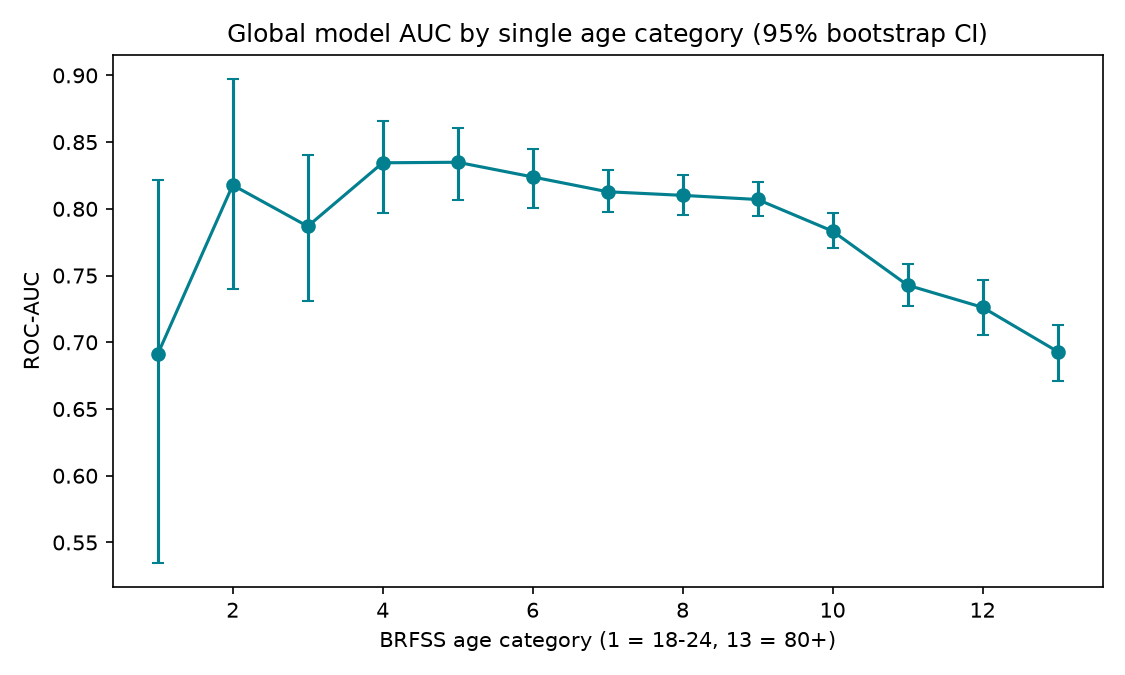
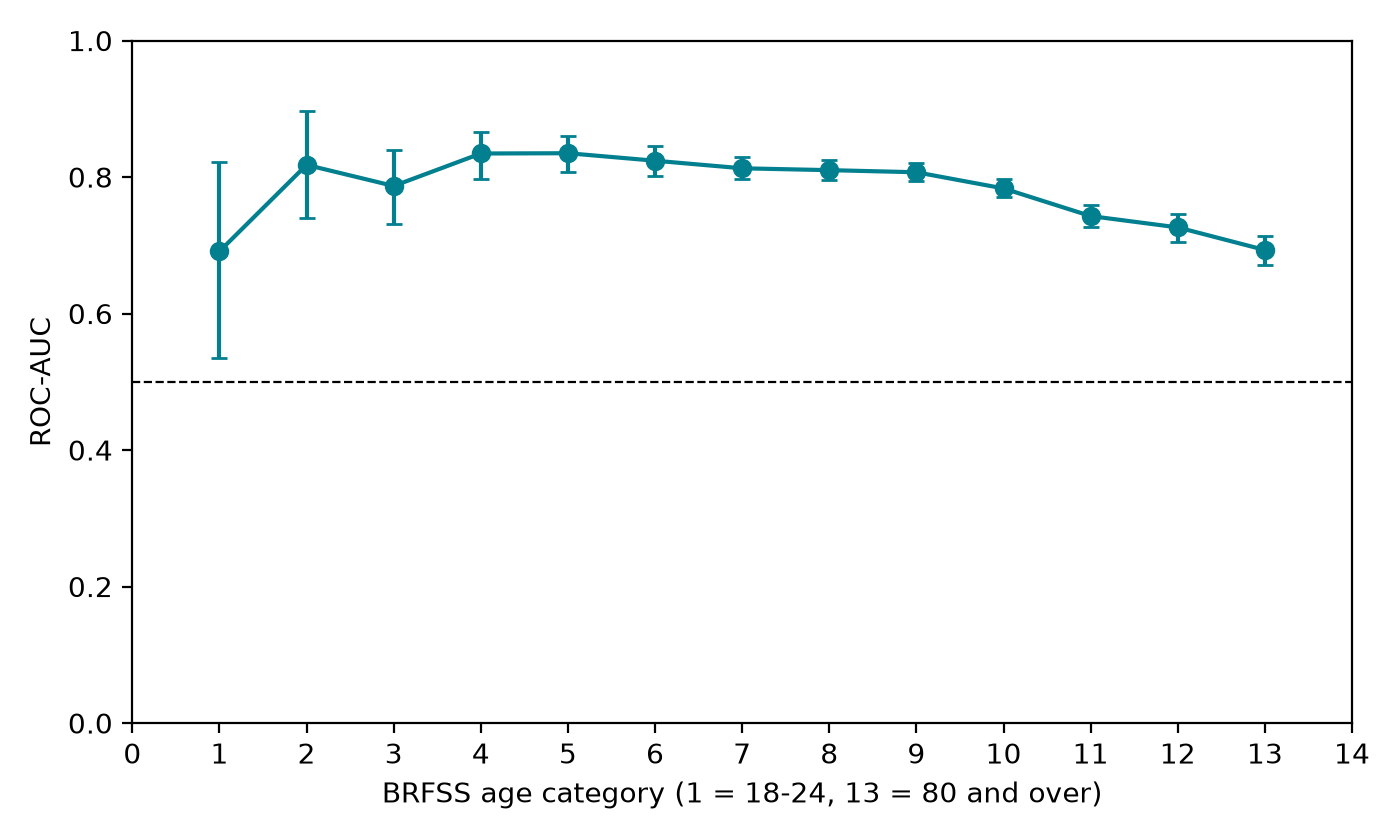
Fix data-source description; regenerate figures with zero-based axes

diff --git a/src/make_figures.py b/src/make_figures.py
@@ -1,0 +1,140 @@
+import os
+import numpy as np, pandas as pd
+import matplotlib.pyplot as plt
+from sklearn.metrics import precision_score, recall_score, f1_score
+from pipeline import X_tr, X_va, X_te, y_tr, y_va, y_te, models, fit_calibrator, cv_brier
+
+os.makedirs("figures", exist_ok=True)
+yva, yte = np.asarray(y_va), np.asarray(y_te)
+C1, C2, C3, C4 = "#028090", "#E86A5C", "#6A4C93", "#2A9D8F"
+FIGSIZE = (7, 4.2)
+
+
+def err(center, lo, hi):
+    """Asymmetric error bars, clipped so they are never negative."""
+    c = np.asarray(center, float)
+    return [np.clip(c - np.asarray(lo, float), 0, None),
+            np.clip(np.asarray(hi, float) - c, 0, None)]
+
+
+def save(fig, name):
+    fig.tight_layout()
+    fig.savefig(f"figures/{name}", dpi=200)
+    plt.close(fig)
+
+
+# ---------------------------------------------------------------------------
+# 0. Fit models + calibrators FIRST (this was defined too late before -> NameError)
+# ---------------------------------------------------------------------------
+S = {}
+for lab, w in (("plain", False), ("weighted", True)):
+    m = models(w)["XGB"]
+    m.fit(X_tr, y_tr)
+    s_va, s_te = m.predict_proba(X_va)[:, 1], m.predict_proba(X_te)[:, 1]
+    kind = min(("platt", "isotonic"), key=lambda c: cv_brier(c, s_va, yva))
+    S[lab] = dict(raw=s_te, cal=fit_calibrator(kind, s_va, yva)(s_te), kind=kind)
+
+
+def curve(y_, p, bins=10):
+    parts = np.array_split(np.argsort(p), bins)
+    return np.array([p[i].mean() for i in parts]), np.array([y_[i].mean() for i in parts])
+
+
+# ---------------------------------------------------------------------------
+# 1. AUC with bootstrap CIs (y from 0, values printed)
+# ---------------------------------------------------------------------------
+ci = pd.read_csv("figures/v2_bootstrap_ci_summary.csv")
+fig, ax = plt.subplots(figsize=FIGSIZE)
+xs = np.arange(len(ci))
+ax.errorbar(xs, ci["AUC"], yerr=err(ci["AUC"], ci["AUC_lo"], ci["AUC_hi"]),
+            fmt="o", capsize=5, color=C1)
+for x_, a, lo, hi in zip(xs, ci["AUC"], ci["AUC_lo"], ci["AUC_hi"]):
+    # put label just above the CI, but never above the top of the axes
+    ax.text(x_ + 0.05, min(hi + 0.02, 0.90), f"{a:.3f}\n[{lo:.3f}, {hi:.3f}]",
+            ha="left", va="bottom", fontsize=7)
+ax.axhline(0.5, color="k", lw=0.8, ls="--")
+ax.text(len(ci) - 0.55, 0.52, "chance (0.5)", ha="right", fontsize=7)
+ax.set_xticks(xs); ax.set_xticklabels(ci["model"])
+ax.set_xlim(-0.5, len(ci) - 0.5); ax.set_ylim(0, 1)
+ax.set_ylabel("ROC-AUC"); ax.set_title("Test ROC-AUC, 95% bootstrap CI")
+save(fig, "v2_bootstrap_ci_plot.png")
+
+# ---------------------------------------------------------------------------
+# 2. AUC by single age category (both axes from 0)
+# ---------------------------------------------------------------------------
+ac = pd.read_csv("figures/v2_age_by_category.csv")
+ac["age_category"] = pd.to_numeric(ac["age_category"], errors="coerce")  # must be numeric for xlim
+ac = ac.sort_values("age_category")
+fig, ax = plt.subplots(figsize=FIGSIZE)
+ax.errorbar(ac["age_category"], ac["AUC"], yerr=err(ac["AUC"], ac["lo"], ac["hi"]),
+            fmt="o-", capsize=3, color=C1)
+ax.axhline(0.5, color="k", lw=0.8, ls="--")
+ax.set_xlim(0, 14); ax.set_ylim(0, 1)
+ax.set_xticks(range(0, 15, 1))
+ax.set_xlabel("BRFSS age category (1 = 18-24, 13 = 80 and over)")
+ax.set_ylabel("ROC-AUC")
+save(fig, "v2_fig_age_categories.png")
+
+# ---------------------------------------------------------------------------
+# 3. Threshold sweep from 0 (everyone flagged), both axes from 0
+# ---------------------------------------------------------------------------
+p_cal = S["plain"]["cal"]  # calibrated, unweighted XGBoost, test set
+grid = np.arange(0, 0.6001, 0.005)
+rows = []
+for t in grid:
+    f = p_cal >= t
+    rows.append(dict(thr=t,
+                     prec=precision_score(yte, f, zero_division=0),
+                     rec=recall_score(yte, f, zero_division=0),
+                     F1=f1_score(yte, f, zero_division=0),
+                     pos_rate=f.mean()))
+sw = pd.DataFrame(rows)
+sw.to_csv("figures/v2_threshold_sweep.csv", index=False)
+
+fig, ax = plt.subplots(figsize=FIGSIZE)
+for col, c, lab in (("prec", C1, "Precision"), ("rec", C2, "Recall"),
+                    ("F1", C4, "F1"), ("pos_rate", "#888888", "Share flagged")):
+    ax.plot(sw["thr"], sw[col], color=c, label=lab)
+ax.axvline(0.235, ls=":", color="k", label="validation-chosen = 0.235")
+ax.set_xlim(0, 0.6); ax.set_ylim(0, 1)
+ax.set_xlabel("Decision threshold"); ax.set_ylabel("Metric value")
+ax.legend(fontsize=8)
+save(fig, "v2_fig_threshold.png")
+
+# ---------------------------------------------------------------------------
+# 4. Subgroups: both panels start at 0, ECE limit set from the data
+# ---------------------------------------------------------------------------
+tab = pd.read_csv("figures/v2_subgroup_metrics.csv")
+y = np.arange(len(tab))
+fig, axes = plt.subplots(1, 2, figsize=(9, 4.2), sharey=True)
+for ax, col in zip(axes, ("AUC", "ECE")):
+    ax.errorbar(tab[col], y, xerr=err(tab[col], tab[col + "_lo"], tab[col + "_hi"]),
+                fmt="o", capsize=4, color=C1)
+    ax.set_title(f"{col} by subgroup (95% CI)"); ax.set_xlabel(col)
+axes[0].axvline(0.5, color="k", lw=0.8, ls="--")
+axes[0].set_xlim(0, 1)
+axes[1].set_xlim(0, max(tab["ECE_hi"].max(), tab["ECE"].max()) * 1.15)  # never clips the CI
+axes[0].set_yticks(y); axes[0].set_yticklabels(tab["group"]); axes[0].invert_yaxis()
+save(fig, "v2_fig_subgroups.png")
+
+# ---------------------------------------------------------------------------
+# 5. Calibration: full 0-1 view + zoomed view (rare outcome bunches near 0)
+# ---------------------------------------------------------------------------
+series = (("plain", "raw", "Unweighted, raw", C1),
+          ("weighted", "raw", "Class-weighted, raw", C2),
+          ("weighted", "cal", "Class-weighted, recalibrated", C3))
+curves = [(name, c, *curve(yte, S[lab][key])) for lab, key, name, c in series]
+zoom = min(1.0, max(max(x.max(), yy.max()) for _, _, x, yy in curves) * 1.1)
+
+fig, axes = plt.subplots(1, 2, figsize=(10, 5))
+for ax, lim, title in ((axes[0], 1.0, "Full range"), (axes[1], zoom, f"Zoom (0 to {zoom:.2f})")):
+    ax.plot([0, lim], [0, lim], "k--", label="Perfect calibration")
+    for name, c, x_, y_ in curves:
+        ax.plot(x_, y_, "o-", color=c, label=name)
+    ax.set_xlim(0, lim); ax.set_ylim(0, lim); ax.set_aspect("equal")
+    ax.set_xlabel("Mean predicted probability"); ax.set_ylabel("Observed frequency")
+    ax.set_title(title)
+axes[0].legend(fontsize=8, loc="upper left")
+save(fig, "v2_fig_calibration.png")
+
+print("figures saved")

diff --git a/src/figures.py b/src/figures.py
@@ -83,3 +83,33 @@ ax.set_ylabel("ROC-AUC"); ax.set_title("Age-stratified ROC-AUC, all models")
 plt.tight_layout(); plt.savefig("figures/v2_fig_age_gap.png", dpi=150); plt.close()
 
 print("\nSaved figures/v2_fig_*.png and v2_threshold_sweep.csv")
+
+# ===== axis fixes =====
+# (a) AUC with CIs: fixed axis from chance level
+ci = pd.read_csv("figures/v2_bootstrap_ci_summary.csv")
+fig, ax = plt.subplots(figsize=(7.5, 4.5))
+ax.errorbar(ci["model"], ci["AUC"], yerr=[ci["AUC"] - ci["AUC_lo"], ci["AUC_hi"] - ci["AUC"]],
+            fmt="o", capsize=5, color="#028090")
+ax.axhline(0.5, color="k", lw=0.8, ls="--"); ax.set_ylim(0.5, 1.0)
+ax.set_ylabel("ROC-AUC (axis starts at chance level, 0.5)"); ax.set_title("Test ROC-AUC, 95% bootstrap CI")
+plt.tight_layout(); plt.savefig("figures/v2_bootstrap_ci_plot.png", dpi=150); plt.close()
+
+# (b) AUC by age category
+ac = pd.read_csv("figures/v2_age_by_category.csv")
+fig, ax = plt.subplots(figsize=(7.5, 4.5))
+ax.errorbar(ac["age_category"], ac["AUC"], yerr=[ac["AUC"] - ac["lo"], ac["hi"] - ac["AUC"]],
+            fmt="o-", capsize=3, color="#028090")
+ax.axhline(0.5, color="k", lw=0.8, ls="--"); ax.set_ylim(0.5, 1.0); ax.set_xlim(0, 14)
+ax.set_xlabel("BRFSS age category (1 = 18-24, 13 = 80+)"); ax.set_ylabel("ROC-AUC (axis starts at 0.5)")
+plt.tight_layout(); plt.savefig("figures/v2_fig_age_categories.png", dpi=150); plt.close()
+
+# (c) Age gap: the gap itself, as bars from zero
+ag = pd.read_csv("figures/v2_age_gap_all_models.csv")
+g = ag["gap_18_39_minus_60"]
+fig, ax = plt.subplots(figsize=(6.5, 4.5))
+ax.bar(np.arange(len(ag)), g, yerr=[g - ag["gap_lo"], ag["gap_hi"] - g], capsize=5, color="#028090")
+ax.set_xticks(np.arange(len(ag))); ax.set_xticklabels(ag["model"])
+ax.set_ylim(0, 0.12); ax.set_ylabel("AUC gap: ages 18-39 minus 60+ (95% CI)")
+ax.set_title("Age gap in AUC, all models")
+plt.tight_layout(); plt.savefig("figures/v2_fig_age_gap.png", dpi=150); plt.close()
+print("axis-fixed figures saved")

diff --git a/src/operating_points.py b/src/operating_points.py
@@ -121,7 +121,7 @@ for ax, grouping in zip(axes, PT):
         y, p = yte[mt], p_te[mt]; prev = y.mean()
         ax.plot(pts, [net_benefit(y, p >= t, t) for t in pts], color=c, label=f"{g} model")
         ax.plot(pts, [prev - (1 - prev) * t / (1 - t) for t in pts], color=c, ls="--", lw=1, label=f"{g} treat all")
-    ax.axhline(0, color="k", lw=0.8); ax.set_ylim(-0.05, 0.25)
+    ax.axhline(0, color="k", lw=0.8); ax.set_ylim(-0.05, 0.25); ax.set_xlim(0, 0.4)
     ax.set_title(f"Decision curves by {grouping}"); ax.set_xlabel("Threshold probability")
 axes[0].set_ylabel("Net benefit"); axes[0].legend(fontsize=7)
 plt.tight_layout(); plt.savefig("figures/v2_fig_decision_curves.png", dpi=150); plt.close()

diff --git a/README.md b/README.md
@@ -1,7 +1,7 @@
 # Calibrated and Explainable ML for Diabetes Risk Prediction
 
 Leakage-controlled comparison of logistic regression, random forest, XGBoost and
-LightGBM on the CDC Diabetes Health Indicators data (BRFSS, as distributed by UCI),
+LightGBM on the CDC Diabetes Health Indicators data (BRFSS, as circulated on Kaggle/GitHub),
 with calibration, bootstrap significance testing, subgroup analysis, operating-point
 analysis and SHAP stability.
 
@@ -22,9 +22,11 @@ describes the positive class as including prediabetes, which does not match this
   opportunity); demographic parity and full equalised odds are not tested.
 
 ## Main findings (primary split, unweighted models)
-- Ensembles beat logistic regression by about 0.005-0.006 AUC (Bonferroni-adjusted paired
-  bootstrap): reliable but small. Ensembles are practically equivalent to each other
-  (differences of at most 0.0014 AUC). Ensembles beat logistic regression in all ten
+- Ensembles beat logistic regression by about 0.005-0.006 AUC with default hyperparameters
+  (Bonferroni-adjusted paired bootstrap): reliable but small, and practically equivalent to
+  each other. After a small tuning search the boosted models led logistic regression by about
+  0.009-0.010 AUC (beyond the +/-0.005 margin); XGBoost and LightGBM stay equivalent, and
+  random forest trails them by about 0.003. Ensembles beat logistic regression in all ten
   repeated splits.
 - Unweighted models are already well calibrated (ECE 0.004-0.015). Class weighting
   inflates predicted risk (calibration intercept about -1.6 to -1.7, ECE about 0.23) and
@@ -59,6 +61,8 @@ python src/data_checks.py         # duplicate and leakage diagnostics
 python src/prediabetes.py         # prediabetes label breakdown (needs data/diabetes_012.csv)
 python src/age_gap.py             # why discrimination is lower for older adults
 python src/repeated_splits.py     # key results over ten random splits
+python src/tuning.py              # small hyperparameter search, sensitivity analysis
+python src/tuned_tests.py         # paired tests between tuned models
 ```
 
 Download the data first:
